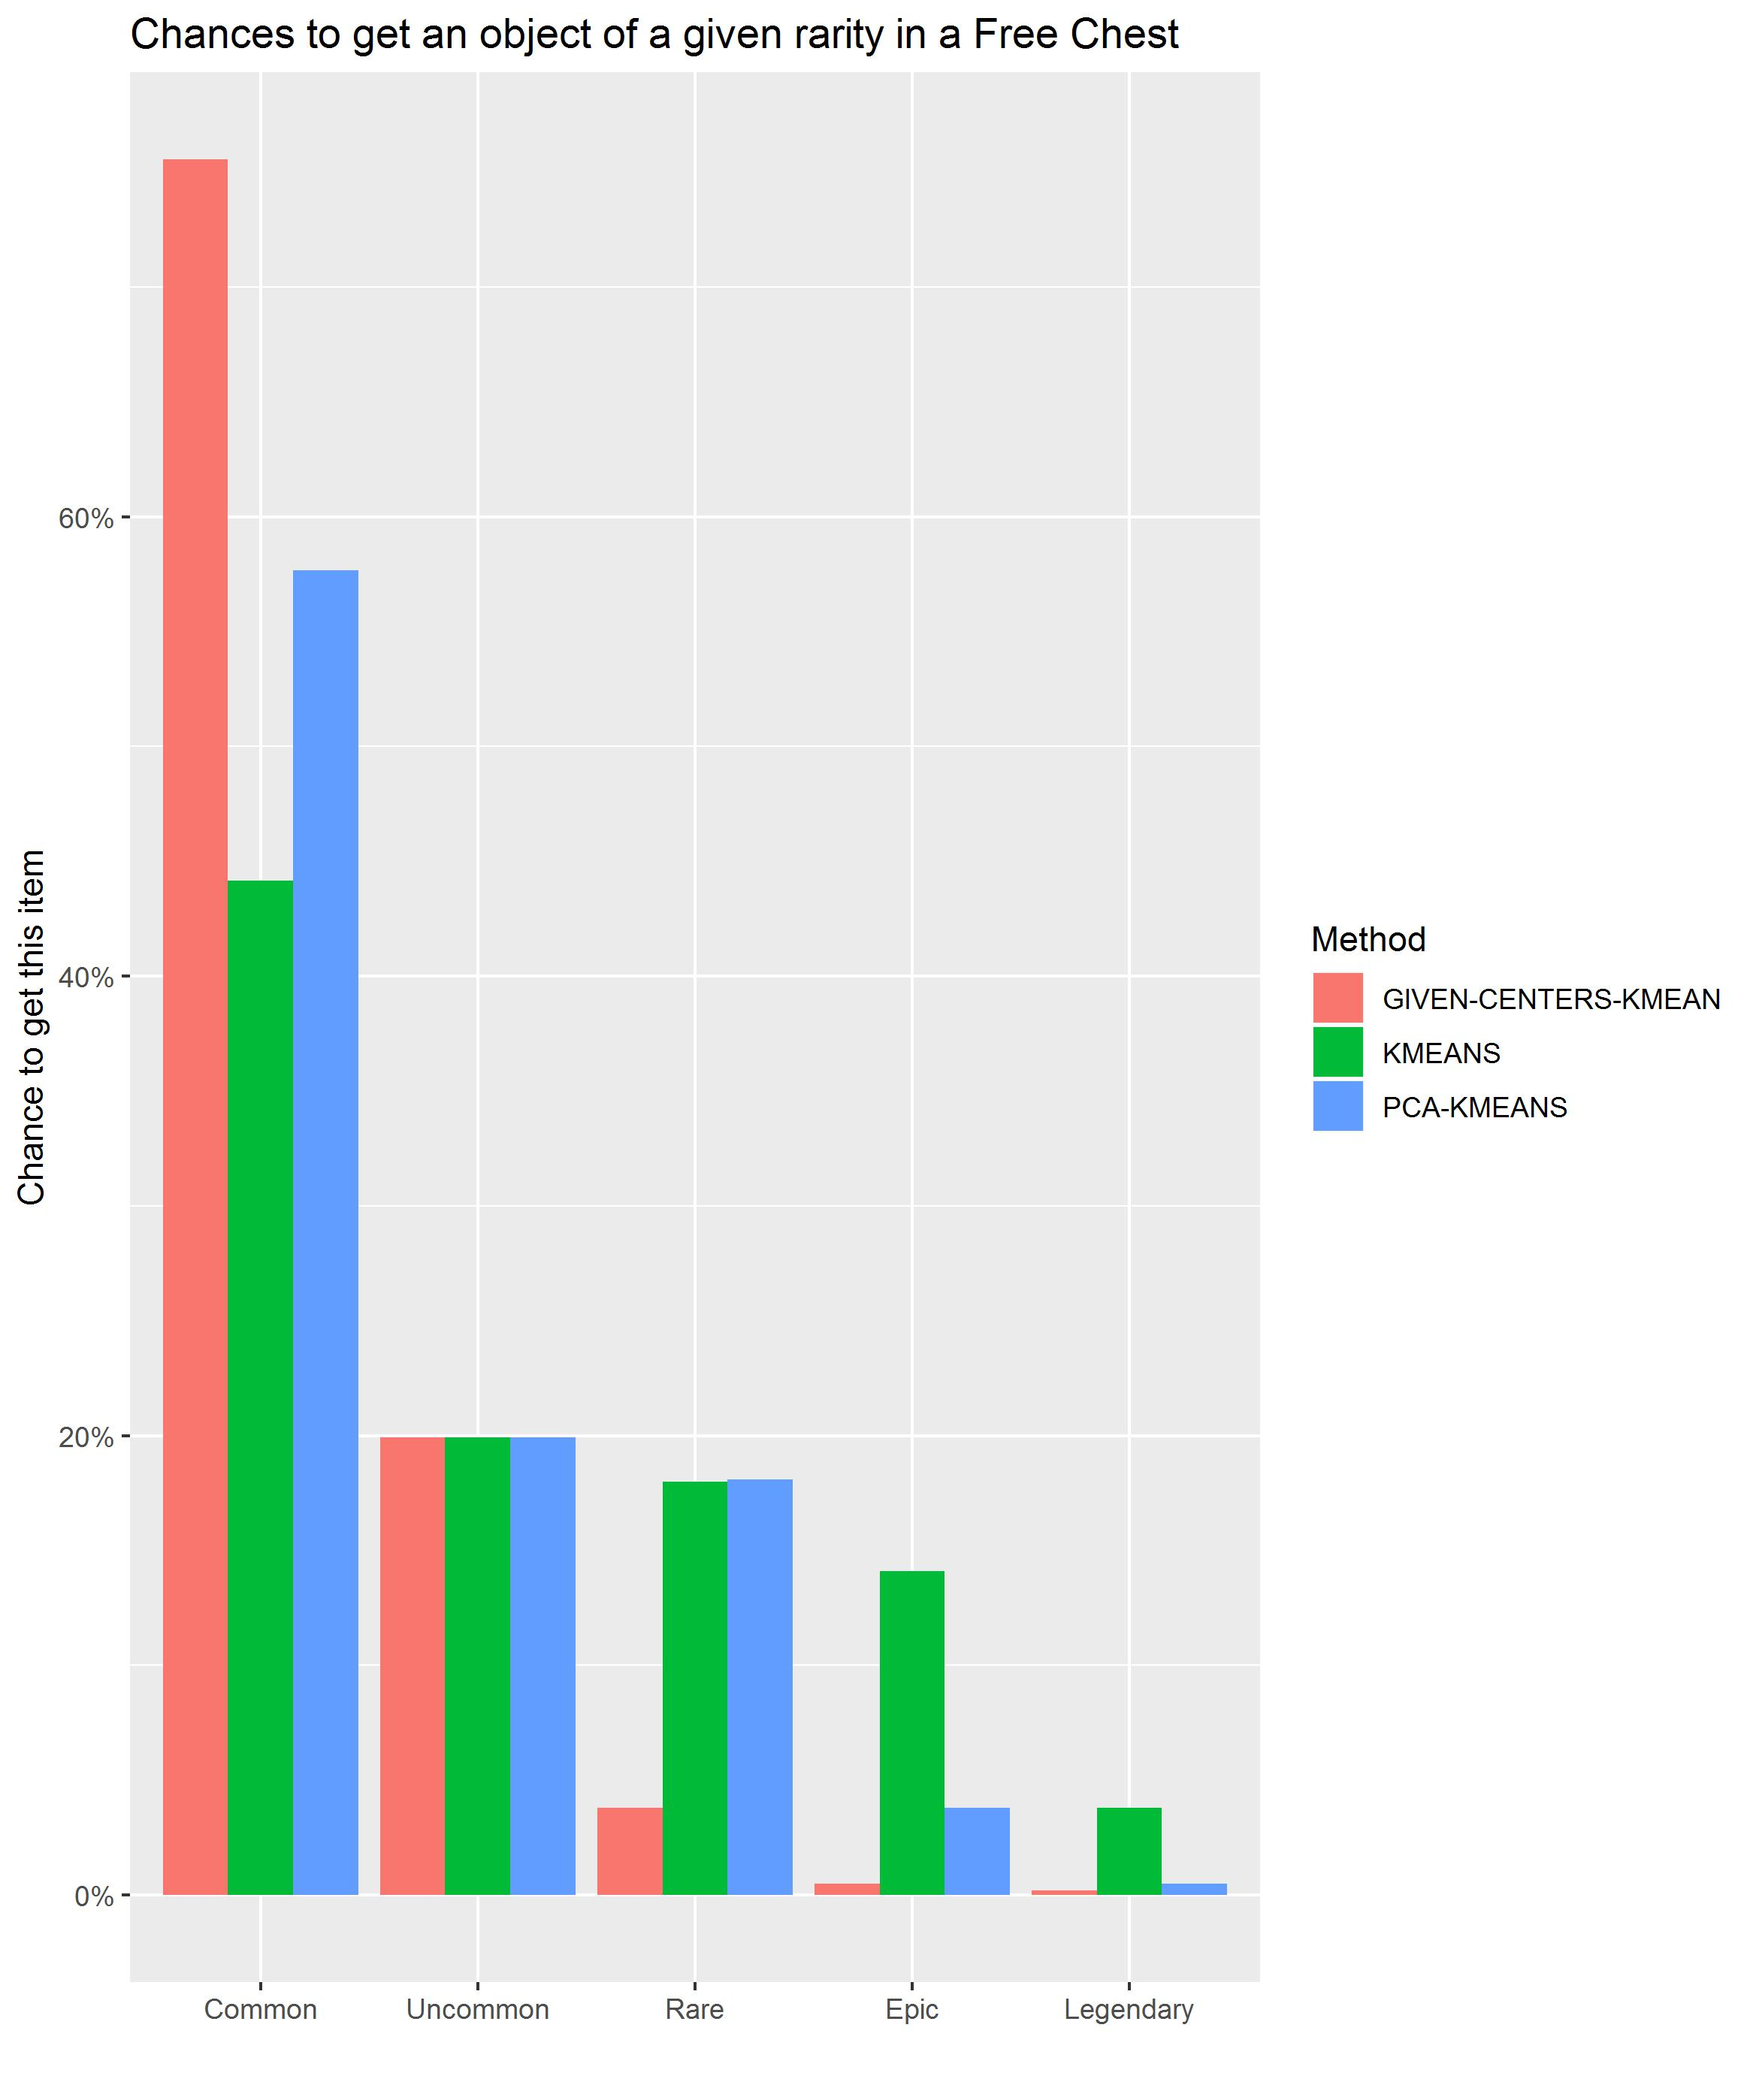
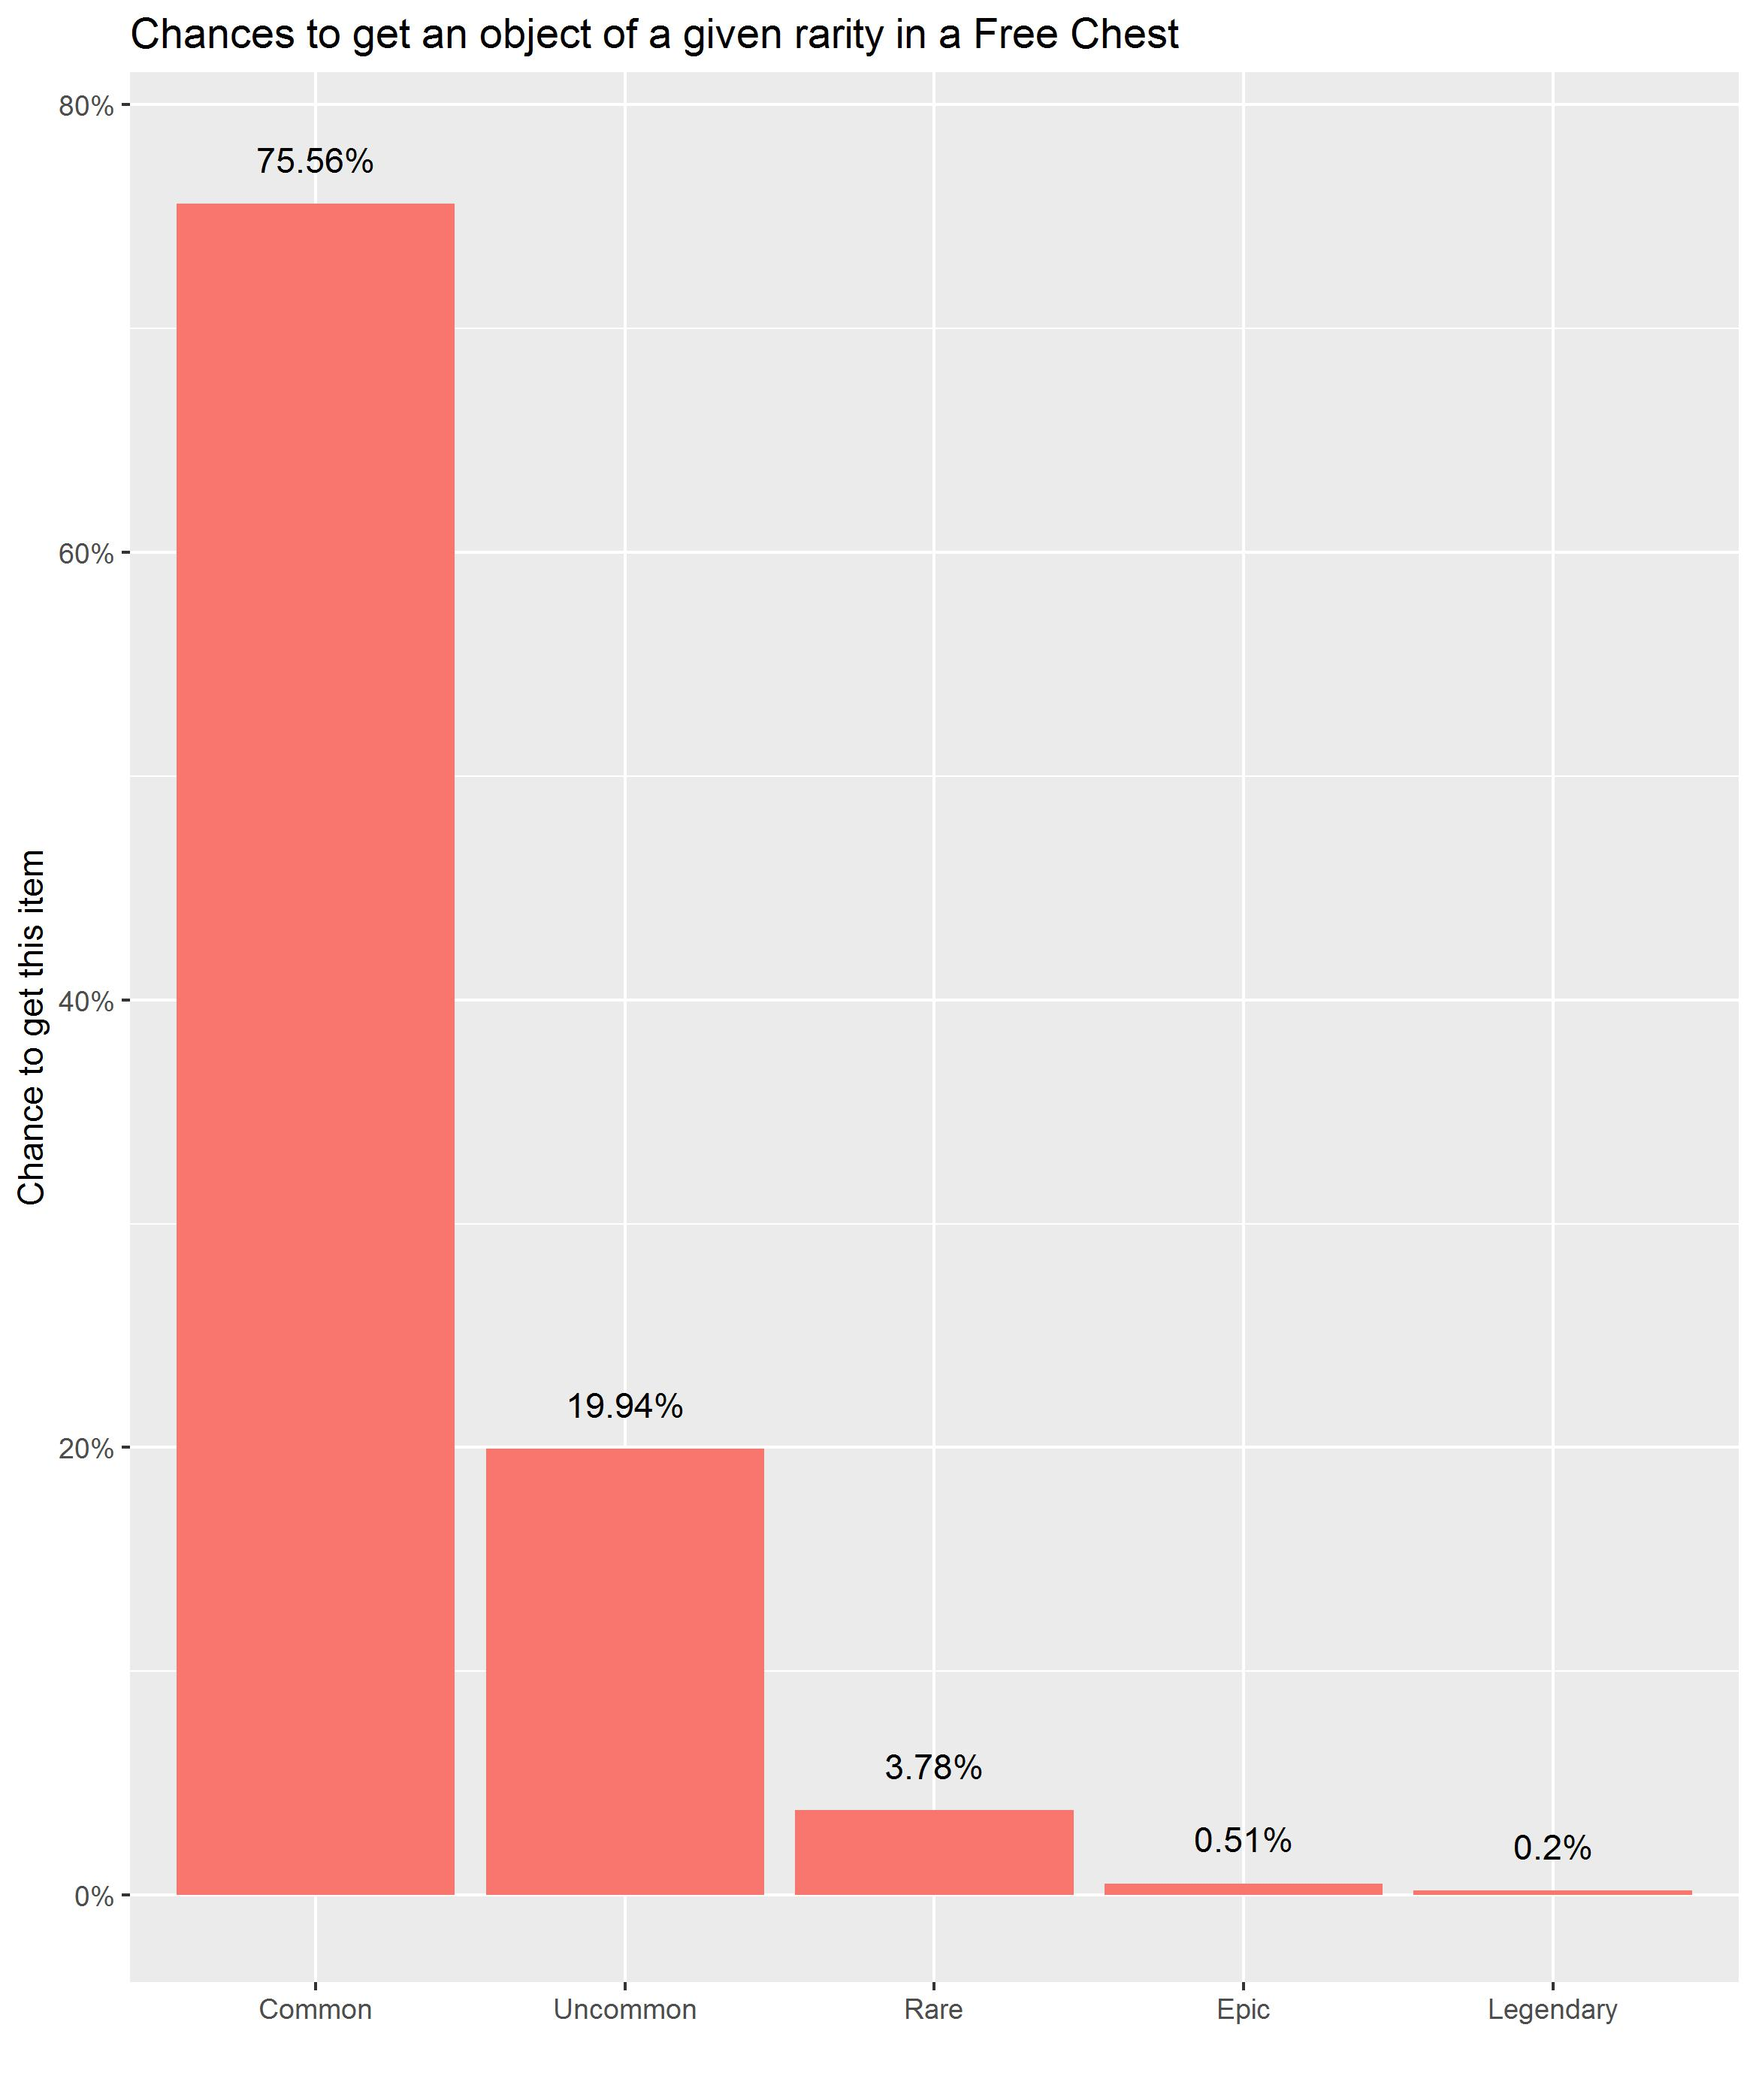
Final Report

diff --git a/README.md b/README.md
@@ -2,17 +2,12 @@
 ## Motivation
 Almost a Hero is Free-To-Play idle-RPG mobile game. As many FTP games, users can purchase lootboxes that awards currencies and items that are needed to progress in game. It is also common that these kind of games offer a FREE lootbox every [X] amount of hours to help retaining the user and creating the habit of connecting.
 
-After having played this game (and a lot other games) for quite some time, I wanted to determine what is the value of this free lootbox and find what are the chances to get an object of a given rarity (Common, Uncommon, Rare, Epic, Legendary)
+I have played this game (and a lot other games) for quite some time and I felt curiosity to determine what is the value of this free lootbox and find what are the chances to get an object of a given rarity (Common, Uncommon, Rare, Epic, Legendary)
 
-For this, I have been gathering screenshots for ~40 days and analyzed them with `imager`and `tesseract` packages
+For this, I have been gathering screenshots for ~40 days and analyzed them with `imager`and `tesseract` packages.
 
 ## Data
-One free lootbox is available every 4 hours but it can be reduced to 1h, allowing me to open a lot of chests daily and gather the maximum data as possible.
-
-![](./images_report/daily_chests.jpg)
-
-
-In total:
+One free lootbox is available every 4 hours but it can be reduced to 1h, allowing me to open a lot of chests daily and gather the maximum data as possible. In total, I gathered:
 
 Chests|Days
 ------|------
@@ -31,13 +26,9 @@ For each lootbox, I was taking a screenshot of the rewards screen and reading th
 Text and numbers were extracted directly from the parts of the screenshot with function `tesseract::ocr_data()`
 
 Rarity of the items was exctracted by selecting 1 pixel of the border of each and reading its RGB composition with function `imager::color.at()`. 
-For some reason I have not investigated, this function gives slightly different values for objects of the same rarity.
+For some reason I have not investigated, this function gives slightly different values for objects that are the same rarity and thus the same colour.
 
-To overcome this problem, I have used a clustering method to group the most similar values in rarity groups. I have tried three approaches:
-1. Using k-means on the RGB data set
-2. Using k-means on the reduced RGB dataset using PCA method
-3. Using k-means with known centers.
-
+To overcome this problem, I have used a clustering method to group the most similar values in rarity groups, given an example for each rarity. 
 
 ## Results & Conclusions
 
@@ -51,29 +42,23 @@ As in the case of the currencies, it looks like the chances to get an object for
 
 ![](./images_report/hero_rewards.jpg)
 
-Regarding the rarities, the values obtained by the clustering are:
+
+Regarding rarity, the distribution found is as follow:
 
 ![](./images_report/chances_comparison.jpg)
 
-Clearly, giving one example of each rarity to the clustering algorithm had the "best" or, at least, the most reliable one.
-Leaving the composition of the chances as follow:
-
-Rarity|Chances
-------|------
-Common|75.6%
-Uncommon|19.9%
-Rare|3.78%
-Epic|0.511%
-Legendary|0.204%
-
-
 #### Value
 
-**Scraps** is the scarcest currency in the game and the one that drives all progression, so to calculate the "value" of the chests I will translate everything to it based on the following conversions:
+**Scraps** is the scarcest currency (despite Gems - the paid currency) in the game and the one that drives all progression, so to calculate the "value" of the lootbox I will translate everything to it based on the following conversions:
+
+If:
 
 Item|Gem Cost
+-----|------
 200 Scraps | 20 Gems
 175 Tokens | 25 Gems
+
+Then:
 
 1 Gem = 7 Tokens = 10 Scraps
 
@@ -86,14 +71,17 @@ Rare|75
 Epic|150
 Legendary|300
 
-Value per Item = (10 x 0.756) + (25 x 0.199) + (75 x 0.0378) + (150 x 0.00511) + (300 x 0.00204) = 16.75
+
+Assuming the previous chances and conversions, I have created a function to simulate a lootbox and run a simulation of 100k openings. Getting that the "average value"" of a Free lootbox is 80 scraps, ranging from 53 to 103 in most of the cases (80%)
+
+![](./images_report/chest_value.jpg)
 
 
-So, we have:
-- Scraps = 19.5 scraps
-- Tokens = 4.5 tokens = 3.15 scraps
-- Objects (x2) = 33.497 scraps
+#### Comments and assumptions
+- Data was collected from 23rd of October to 7th of December of 2018
+- During this period the game was updated and the findings could no longer apply to what is actually in-game
+- Tokens have been included to assess the "value" of the lootbox altough there is not any explicit way to convert them to Scraps in the game.
+- The 2 items in the chest have been considered independent of each other, but it could be that they are correlated. And for example, the chance to get 2 objects of high rarity in the same chest is restricted by the designers.
 
-Total Value in Scraps per chest = 56.147
 
 
